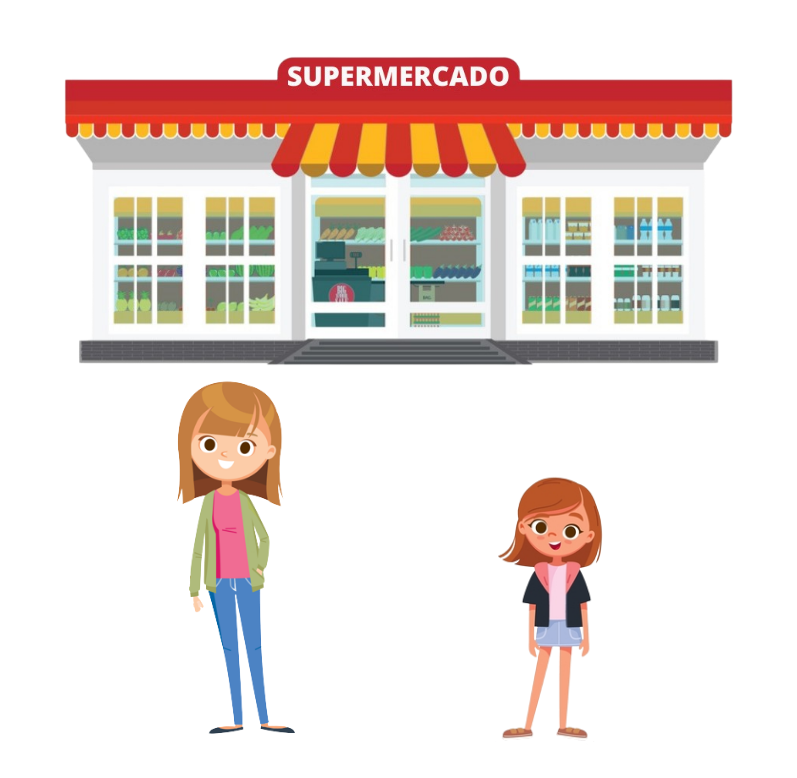
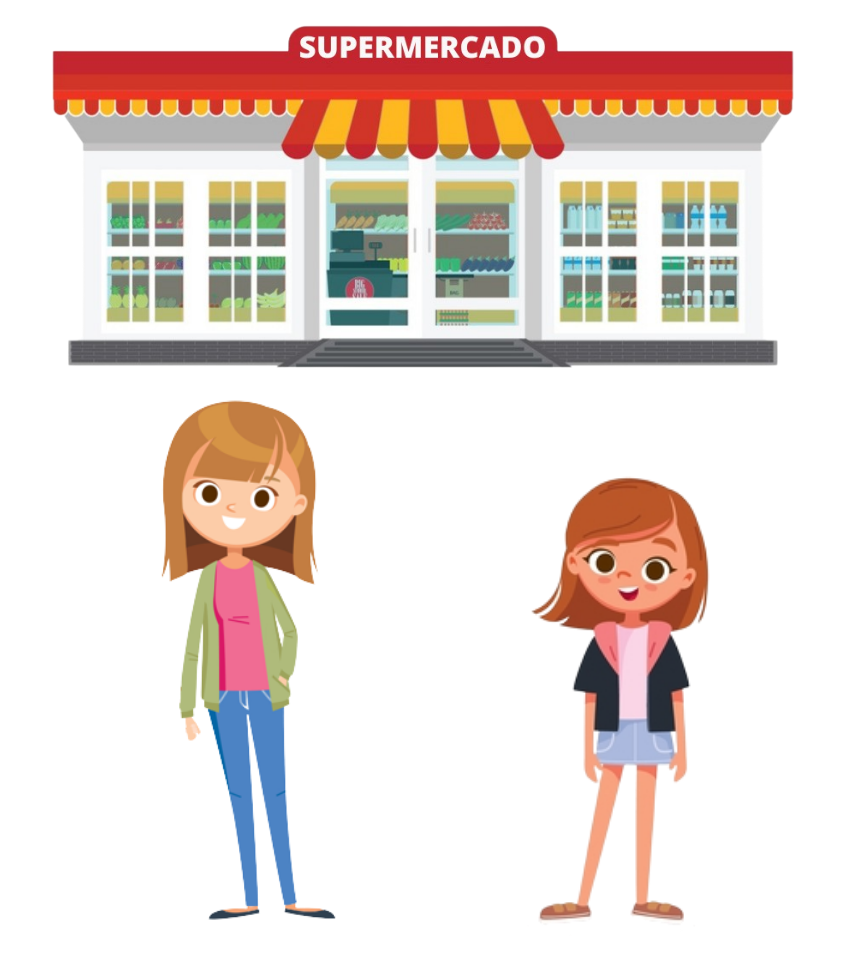
bugs fixed

diff --git a/src/components/DragAndDrop/index.js b/src/components/DragAndDrop/index.js
@@ -134,9 +134,10 @@ const DragAndDrop = ({ receiveList, dragList, onChange, onResponse }) => {
           const eventInReceivingList = payload[0].inReceiveList;
           const eventAnswer = payload[0].answer;
           const itemInReceivingList = item.inReceiveList;
+          const itemAnswer = item.answer;
           const selected_item = payload[0]
           
-          if (eventInReceivingList === true && eventAnswer === true && itemInReceivingList === true) {
+          if (eventInReceivingList && eventAnswer && itemInReceivingList) {
 
             let oldReceivingItemList = [...receivingItemList];
             let newReceivingItemList = [...receivingItemList];
@@ -145,6 +146,14 @@ const DragAndDrop = ({ receiveList, dragList, onChange, onResponse }) => {
 
             if (selected_item.id === index) {
               newReceivingItemList[index].correct = true
+            } else {
+              newReceivingItemList[index].correct = false
+            };
+
+            if (itemAnswer && newReceivingItemList[payload[1]].id === payload[1]) {
+              newReceivingItemList[payload[1]].correct = true
+            } else if (itemAnswer && newReceivingItemList[payload[1]].id !== payload[1]) {
+              newReceivingItemList[payload[1]].correct = false
             };
 
             setReceivedItemList(newReceivingItemList);
@@ -152,42 +161,51 @@ const DragAndDrop = ({ receiveList, dragList, onChange, onResponse }) => {
             // console.log(receiveList.length);
             if (newReceivingItemList.filter((item) => item.correct === true).length === receiveList.length) {
               setCorrectOrder(true);
-            }
+            } else {
+              setCorrectOrder(false);
+            };
+
             if (newReceivingItemList.filter((item) => item.answer === true).length === receiveList.length) {
               setAllAnswer(true);
             } else {
               setAllAnswer(false);
-            }
+            };
+
+            console.log(newReceivingItemList);
 
           } else {
 
-            let oldReceivingItemList = [...receivingItemList];
-            let newReceivingItemList = [...receivingItemList];
-            newReceivingItemList[index] = selected_item;
-            newReceivingItemList[index].inReceiveList = true;
+              let oldReceivingItemList = [...receivingItemList];
+              let newReceivingItemList = [...receivingItemList];
+              newReceivingItemList[index] = selected_item;
+              newReceivingItemList[index].inReceiveList = true;
 
-            if (selected_item.answer && selected_item.id === index) {
-              newReceivingItemList[index].correct = true
-            };
+              if (selected_item.answer && selected_item.id === index) {
+                newReceivingItemList[index].correct = true
+              } else {
+                newReceivingItemList[index].correct = false
+              };
 
-            setReceivedItemList(newReceivingItemList);
-            // console.log(newReceivingItemList.filter((item) => item.correct === true).length);
-            // console.log(receiveList.length);
-            if (newReceivingItemList.filter((item) => item.correct === true).length === receiveList.length) {
-              setCorrectOrder(true);
-            } 
+              setReceivedItemList(newReceivingItemList);
+              // console.log(newReceivingItemList.filter((item) => item.correct === true).length);
+              // console.log(receiveList.length);
+              if (newReceivingItemList.filter((item) => item.correct === true).length === receiveList.length) {
+                setCorrectOrder(true);
+              } else {
+                setCorrectOrder(false);
+              };
 
-            if (newReceivingItemList.filter((item) => item.answer === true).length === receiveList.length) {
-              setAllAnswer(true);
-            } else {
-              setAllAnswer(false);
-            }
+              if (newReceivingItemList.filter((item) => item.answer === true).length === receiveList.length) {
+                setAllAnswer(true);
+              } else {
+                setAllAnswer(false);
+              };
 
-            let newDragItemMiddleList = [...dragItemMiddleList];
-            newDragItemMiddleList[payload[1]] = oldReceivingItemList[index];
-            newDragItemMiddleList[payload[1]].inReceiveList = false;
+              let newDragItemMiddleList = [...dragItemMiddleList];
+              newDragItemMiddleList[payload[1]] = oldReceivingItemList[index];
+              newDragItemMiddleList[payload[1]].inReceiveList = false;
 
-            setDragItemListMiddle(newDragItemMiddleList);
+              setDragItemListMiddle(newDragItemMiddleList);
           }}
         }
         renderHoverContent={({ viewState }) => {

diff --git a/src/screens/Select/Select2.js b/src/screens/Select/Select2.js
@@ -9,8 +9,7 @@ const Select2 = ({ navigation }) => {
         <ScrollView>
             <Text>Vamos entender passo a passo o que significa cada palavra desse comando:</Text>
             <Text>A palavra <TextRed>"SELECT"</TextRed> significa <TextBlue>"SELECIONAR"</TextBlue> é ela que será responsável por definir quais campos (colunas) queremos resgatar ao fazer a consulta, enquanto que o <TextRed>"*"</TextRed> diz ao banco que queremos selecionar <TextBlue>TODOS</TextBlue> os campos de uma tabela.</Text>
-            <Text>A palavra <TextRed>"FROM"</TextRed> significa <TextBlue>"DE"</TextBlue>, ela que nos diz DE qual tabela nós queremos resgatar aqueles dados, nesse caso da tabela <TextBlue>"COMPRAS"</TextBlue>. Em outras palavras com o comando</Text>
-            <Text><TextRed>"SELECT * FROM COMPRAS"</TextRed> estamos dizendo ao banco de dados <TextBlue>"SELECIONE TODAS AS INFORMAÇÕES DA TABELA COMPRAS"</TextBlue>. Mas para casos em que as tabelas possuem muitas colunas, não é interessante utilizar o <TextRed>"*"</TextRed>, pois muitos dados seriam resgatados, e também na maioria dos casos nós não queremos ver todas as informações, apenas as que nos interessam.</Text>
+            <Text>A palavra <TextRed>"FROM"</TextRed> significa <TextBlue>"DE"</TextBlue>, ela que nos diz DE qual tabela nós queremos resgatar aqueles dados, nesse caso da tabela <TextBlue>"COMPRAS"</TextBlue>. Em outras palavras com o comando <TextRed>"SELECT * FROM COMPRAS"</TextRed> estamos dizendo ao banco de dados <TextBlue>"SELECIONE TODAS AS INFORMAÇÕES DA TABELA COMPRAS"</TextBlue>. Mas para casos em que as tabelas possuem muitas colunas, não é interessante utilizar o <TextRed>"*"</TextRed>, pois muitos dados seriam resgatados, e também na maioria dos casos nós não queremos ver todas as informações, apenas as que nos interessam.</Text>
             <ViewEnd>
                 <Navigation 
                     reply  ={() => navigation.navigate("Select1")} 

diff --git a/src/screens/Insert/Insert2.js b/src/screens/Insert/Insert2.js
@@ -9,7 +9,7 @@ const Insert2 = ({ navigation }) => {
     return (
         <View>
             <Text>Após essa primeira parte, precisamos definir em quais colunas nós iremos inserir estes dados <TextRed>(CODIGO, PRODUTO, QUANTIDADE, PRECO, UNIDADE)</TextRed> e os seus respectivos VALORES <TextRed>“VALUES (1, “LEITE”, 4, 5, “L”)</TextRed>. Dados do tipo texto precisam estar entre aspas “ ” para que o banco saiba diferenciar um texto de um número.</Text>
-            <Text>Então para inserirmos o produto “Leite” em nossa tabela, utilizaríamos o seguinte comando:<TextRed>INSERT INTO COMPRAS (CODIGO, PRODUTO, QUANTIDADE, PRECO, UNIDADE) VALUES (1, “Leite”, 4, 5, “L”);</TextRed></Text>
+            <Text>Então para inserirmos o produto “Leite” em nossa tabela, utilizaríamos o seguinte comando: <TextRed>INSERT INTO COMPRAS (CODIGO, PRODUTO, QUANTIDADE, PRECO, UNIDADE) VALUES (1, “Leite”, 4, 5, “L”);</TextRed></Text>
             <View style={{ justifyContent: "center" }}>
                 <InsertTable />
             </View>

diff --git a/src/components/Tables/TablesSelect/index.js b/src/components/Tables/TablesSelect/index.js
@@ -98,7 +98,7 @@ export class ComprasQ2 extends Component {
   constructor(props) {
     super(props);
     this.state = {
-      tableHead: ["Produto"],
+      tableHead: ["PRODUTO"],
       tableData: [
         ["Leite"],
         ["Suco"],
@@ -123,7 +123,7 @@ export class ComprasQ3 extends Component {
   constructor(props) {
     super(props);
     this.state = {
-      tableHead: ["Produto"],
+      tableHead: ["PRODUTO"],
       tableData: [
         ["Leite"],
         ["Suco"],
@@ -144,7 +144,7 @@ export class ComprasQ4 extends Component {
   constructor(props) {
     super(props);
     this.state = {
-      tableHead: ["Preço", "Produto"],
+      tableHead: ["PREÇO", "PRODUTO"],
       tableData: [
         [8, "Suco"],
         [7, "Chocolate"],
@@ -165,7 +165,7 @@ export class ComprasQ5 extends Component {
   constructor(props) {
     super(props);
     this.state = {
-      tableHead: ["Produto", "Preço"],
+      tableHead: ["PRODUTO", "PREÇO"],
       tableData: [
         ["Arroz", 5],
       ],

diff --git a/src/screens/HomeScreen.js b/src/screens/HomeScreen.js
@@ -7,10 +7,10 @@ import AsyncStorage from '@react-native-async-storage/async-storage';
 import _isEmpty from 'lodash/isEmpty';
 
 const STEPS = [
-    {moduleName: "Introdução", screen: "Page1", progressName: "introductionModule", id: 1},
-    {moduleName: "Create", screen: "Create1", progressName: "createModule", id: 2},
-    {moduleName: "Insert", screen: "Insert1", progressName: "insertModule", id: 3},
-    {moduleName: "Select", screen: "Select1", progressName: "selectModule", id: 4}
+    {moduleName: "INTRODUÇÃO", screen: "Page1", progressName: "introductionModule", id: 1},
+    {moduleName: "CREATE TABLE", screen: "Create1", progressName: "createModule", id: 2},
+    {moduleName: "INSERT", screen: "Insert1", progressName: "insertModule", id: 3},
+    {moduleName: "SELECT", screen: "Select1", progressName: "selectModule", id: 4}
 ];
 
 const HomeScreen = ({ navigation }) => {

diff --git a/src/screens/Select/Select6.js b/src/screens/Select/Select6.js
@@ -14,7 +14,7 @@ const Select6 = ({ navigation }) => {
         <View>
             <Text><TextGreen>PARABÉNS!</TextGreen> Podemos também aplicar mais de um filtro utilizando o comando <TextRed>"AND"</TextRed> que significa <TextRed>"E"</TextRed> em português, logo após o primeiro filtro utilizando o comando <TextRed>"WHERE"</TextRed>:</Text>
             <Text>"SELECT PRODUTO, PRECO FROM COMPRAS WHERE PRECO {menor} 6 <TextRed>AND</TextRed> QUANTIDADE {maior} 3"</Text>
-            <Text>(SELECIONE PRODUTO E PRECO DA TABELA DE COMPRAS ONDE PREÇO SEJA MENOR QUE 10 E A QUANTIDADE MAIOR QUE 10)</Text>  
+            <Text>(SELECIONE PRODUTO E PREÇO DA TABELA DE COMPRAS ONDE PREÇO SEJA MENOR QUE 6 E A QUANTIDADE MAIOR QUE 3)</Text>  
             <View style={{ justifyContent: "center" }}> 
                 <Compras4 />
             </View>

diff --git a/src/screens/Select/Select4.js b/src/screens/Select/Select4.js
@@ -12,7 +12,7 @@ const Select4 = ({ navigation }) => {
     return (
         <ScrollView>
             <Text>Nós também podemos aplicar filtros em nossas consultas, ou seja, definir quais informações desejamos obter com base em restrições de preço por exemplo.
-            Se quisermos saber todo os produtos que tenham o preço maior ou igual a 5 reais, aplicaremos o filtro <TextRed>"WHERE PRECO {maior}= 6"</TextRed> no final do nosso comando:</Text>
+            Se quisermos saber todos os produtos que tenham o preço maior ou igual a 5 reais, aplicaremos o filtro <TextRed>"WHERE PRECO {maior}= 6"</TextRed> no final do nosso comando:</Text>
             <Text>"SELECT PRODUTO, PRECO FROM COMPRAS <TextRed>WHERE</TextRed> PRECO {maior}= 6".</Text>  
             <View style={{ justifyContent: "center" }}> 
                 <Compras3 />

diff --git a/src/components/CheckBox/index.js b/src/components/CheckBox/index.js
@@ -61,8 +61,8 @@ const CheckBox = ({ verify, options, onChange }) => {
                     <Text>
                         <TouchableOpacity onPress={() => pick(alternative.id)}>
                             { selected.findIndex(i => i === alternative.id) !== -1 ? 
-                                <Ionicons name="checkbox" size={22} color='#5b1d99'/> :
-                                <MaterialCommunityIcons name="checkbox-blank-outline" size={22} color='#5b1d99'/>}
+                                <Ionicons name="checkbox" size={24} color='#5b1d99'/> :
+                                <MaterialCommunityIcons name="checkbox-blank-outline" size={24} color='#5b1d99'/>}
                         </TouchableOpacity> {alternative.text}</Text>
                 </ViewOptions>
             ))}

diff --git a/src/components/Tables/TablesIntroduction/index.js b/src/components/Tables/TablesIntroduction/index.js
@@ -29,7 +29,7 @@ export class Produtos extends Component {
   constructor(props) {
     super(props);
     this.state = {
-      tableHead: ['PRODUTO', 'QUANTIDADE', 'UNIDADE', 'PRECO'],
+      tableHead: ['PRODUTO', 'QUANTIDADE', 'UNIDADE', 'PREÇO'],
       tableData: [
         ['Banana',       10, 'KG', 5],
         ['Bolacha',      20, 'UN', 3],
@@ -53,7 +53,7 @@ export class ProdutosPK extends Component {
   constructor(props) {
     super(props);
     this.state = {
-      tableHead: ['CODIGO', 'PRODUTO', 'QUANTIDADE', 'UNIDADE', 'PRECO'],
+      tableHead: ['CODIGO', 'PRODUTO', 'QUANTIDADE', 'UNIDADE', 'PREÇO'],
       tableData: [
         [3, 'Banana',       10, 'KG', 5],
         [4, 'Bolacha',      20, 'UN', 3],

diff --git a/src/screens/Select/Select7.js b/src/screens/Select/Select7.js
@@ -9,7 +9,7 @@ const Select7 = ({ navigation }) => {
         <View>
             <Text>Agora vamos praticar esses comandos arrastando os blocos disponíveis!</Text>
             <Text><TextPurple>Nala</TextPurple> irá ajudar sua mãe <TextPurple>Fátima</TextPurple> a fazer compras no <TextBlue>Supermercado</TextBlue></Text>
-            <Image source={require("../../assets/Supermercado.png")} style={{width: 300, height: 350}}/>
+            <Image source={require("../../assets/Supermercado.png")} style={{width: 350, height: 370}}/>
             <ViewEnd>
                 <Navigation 
                     reply  ={() => navigation.navigate("Select6")} 

diff --git a/src/context/AppContext.js b/src/context/AppContext.js
@@ -43,13 +43,8 @@ export const Context = createContext ({})
             return <Loading />
         };
 
-        // const font = [ 
-        //     {fontFamily: "Poppins_500Medium"},
-        //     {fontFamily: "Poppins_300Light"},
-        // ];
-
         return(
-            <Context.Provider value={{font: "teste", progress, setProgress}}>
+            <Context.Provider value={{ progress, setProgress}}>
                 {children}
             </Context.Provider>
         )

diff --git a/src/screens/WelcomeScreen.js b/src/screens/WelcomeScreen.js
@@ -1,10 +1,7 @@
-import React, { useEffect, useContext } from 'react';
+import React from 'react';
 import { View, Title, SubTitle, ViewMainButton, MainButton, TextMainButton, Logo } from '../styles/main';
-import { Context } from "../context/AppContext";
 
 const HomeScreen = ({ navigation }) => {
-
-    const { name, font } = useContext(Context);
 
     return (
         <View>
